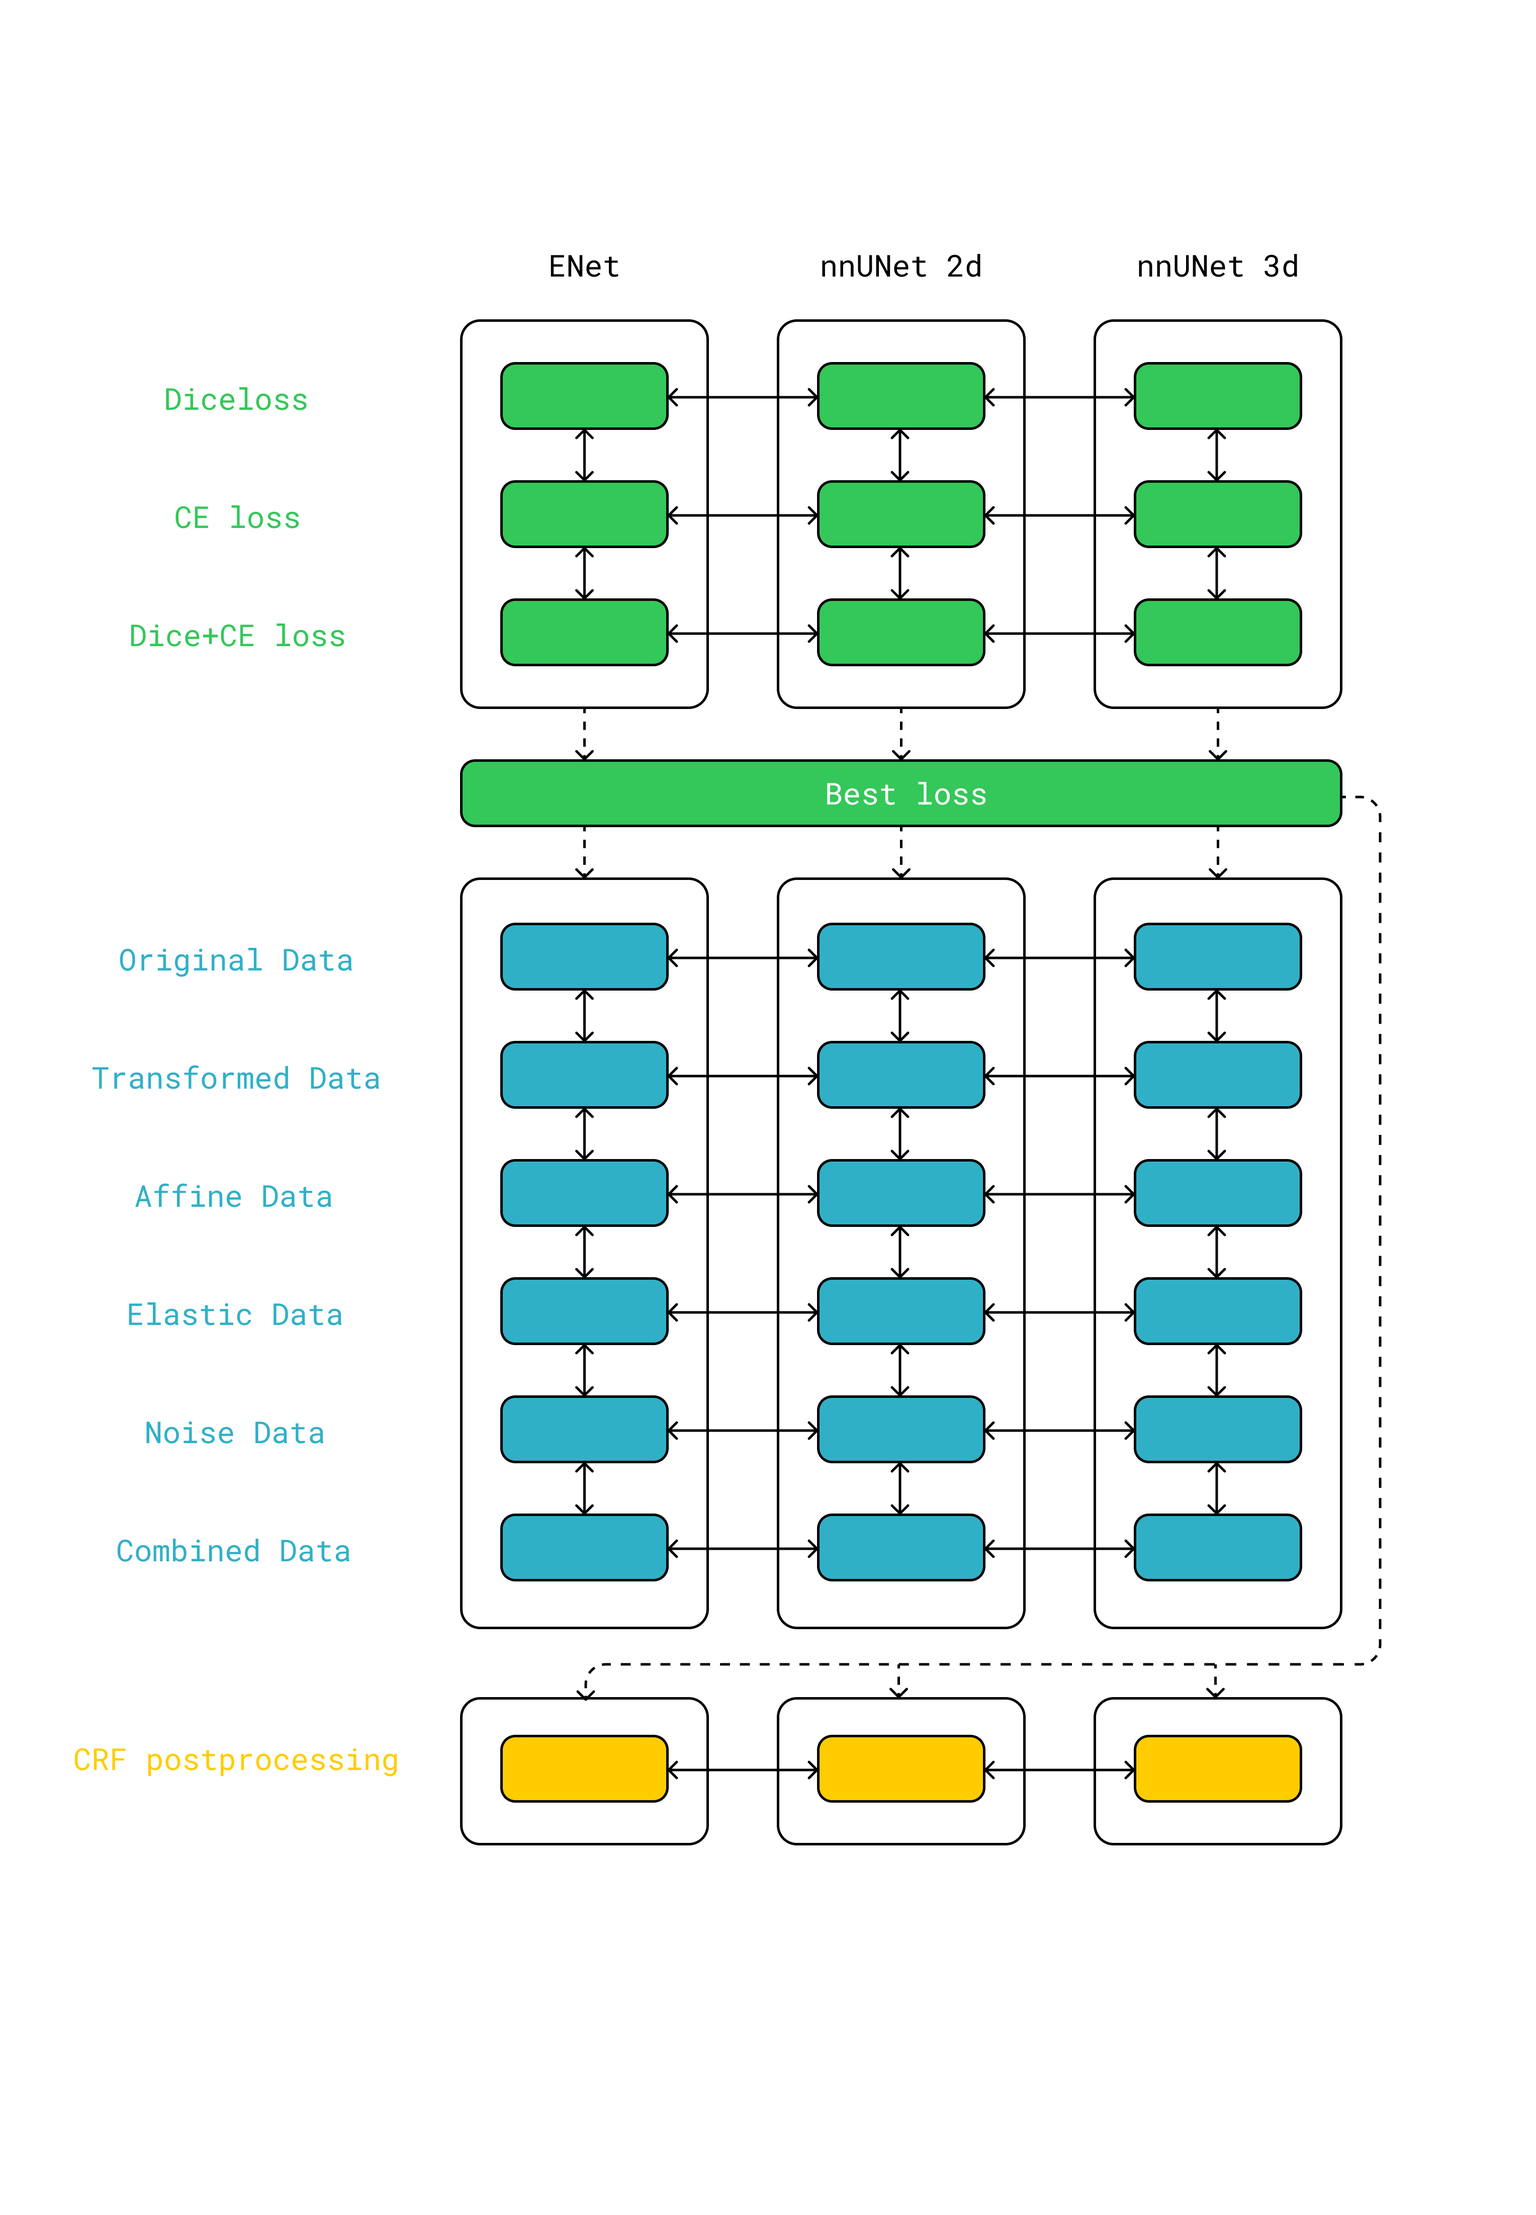
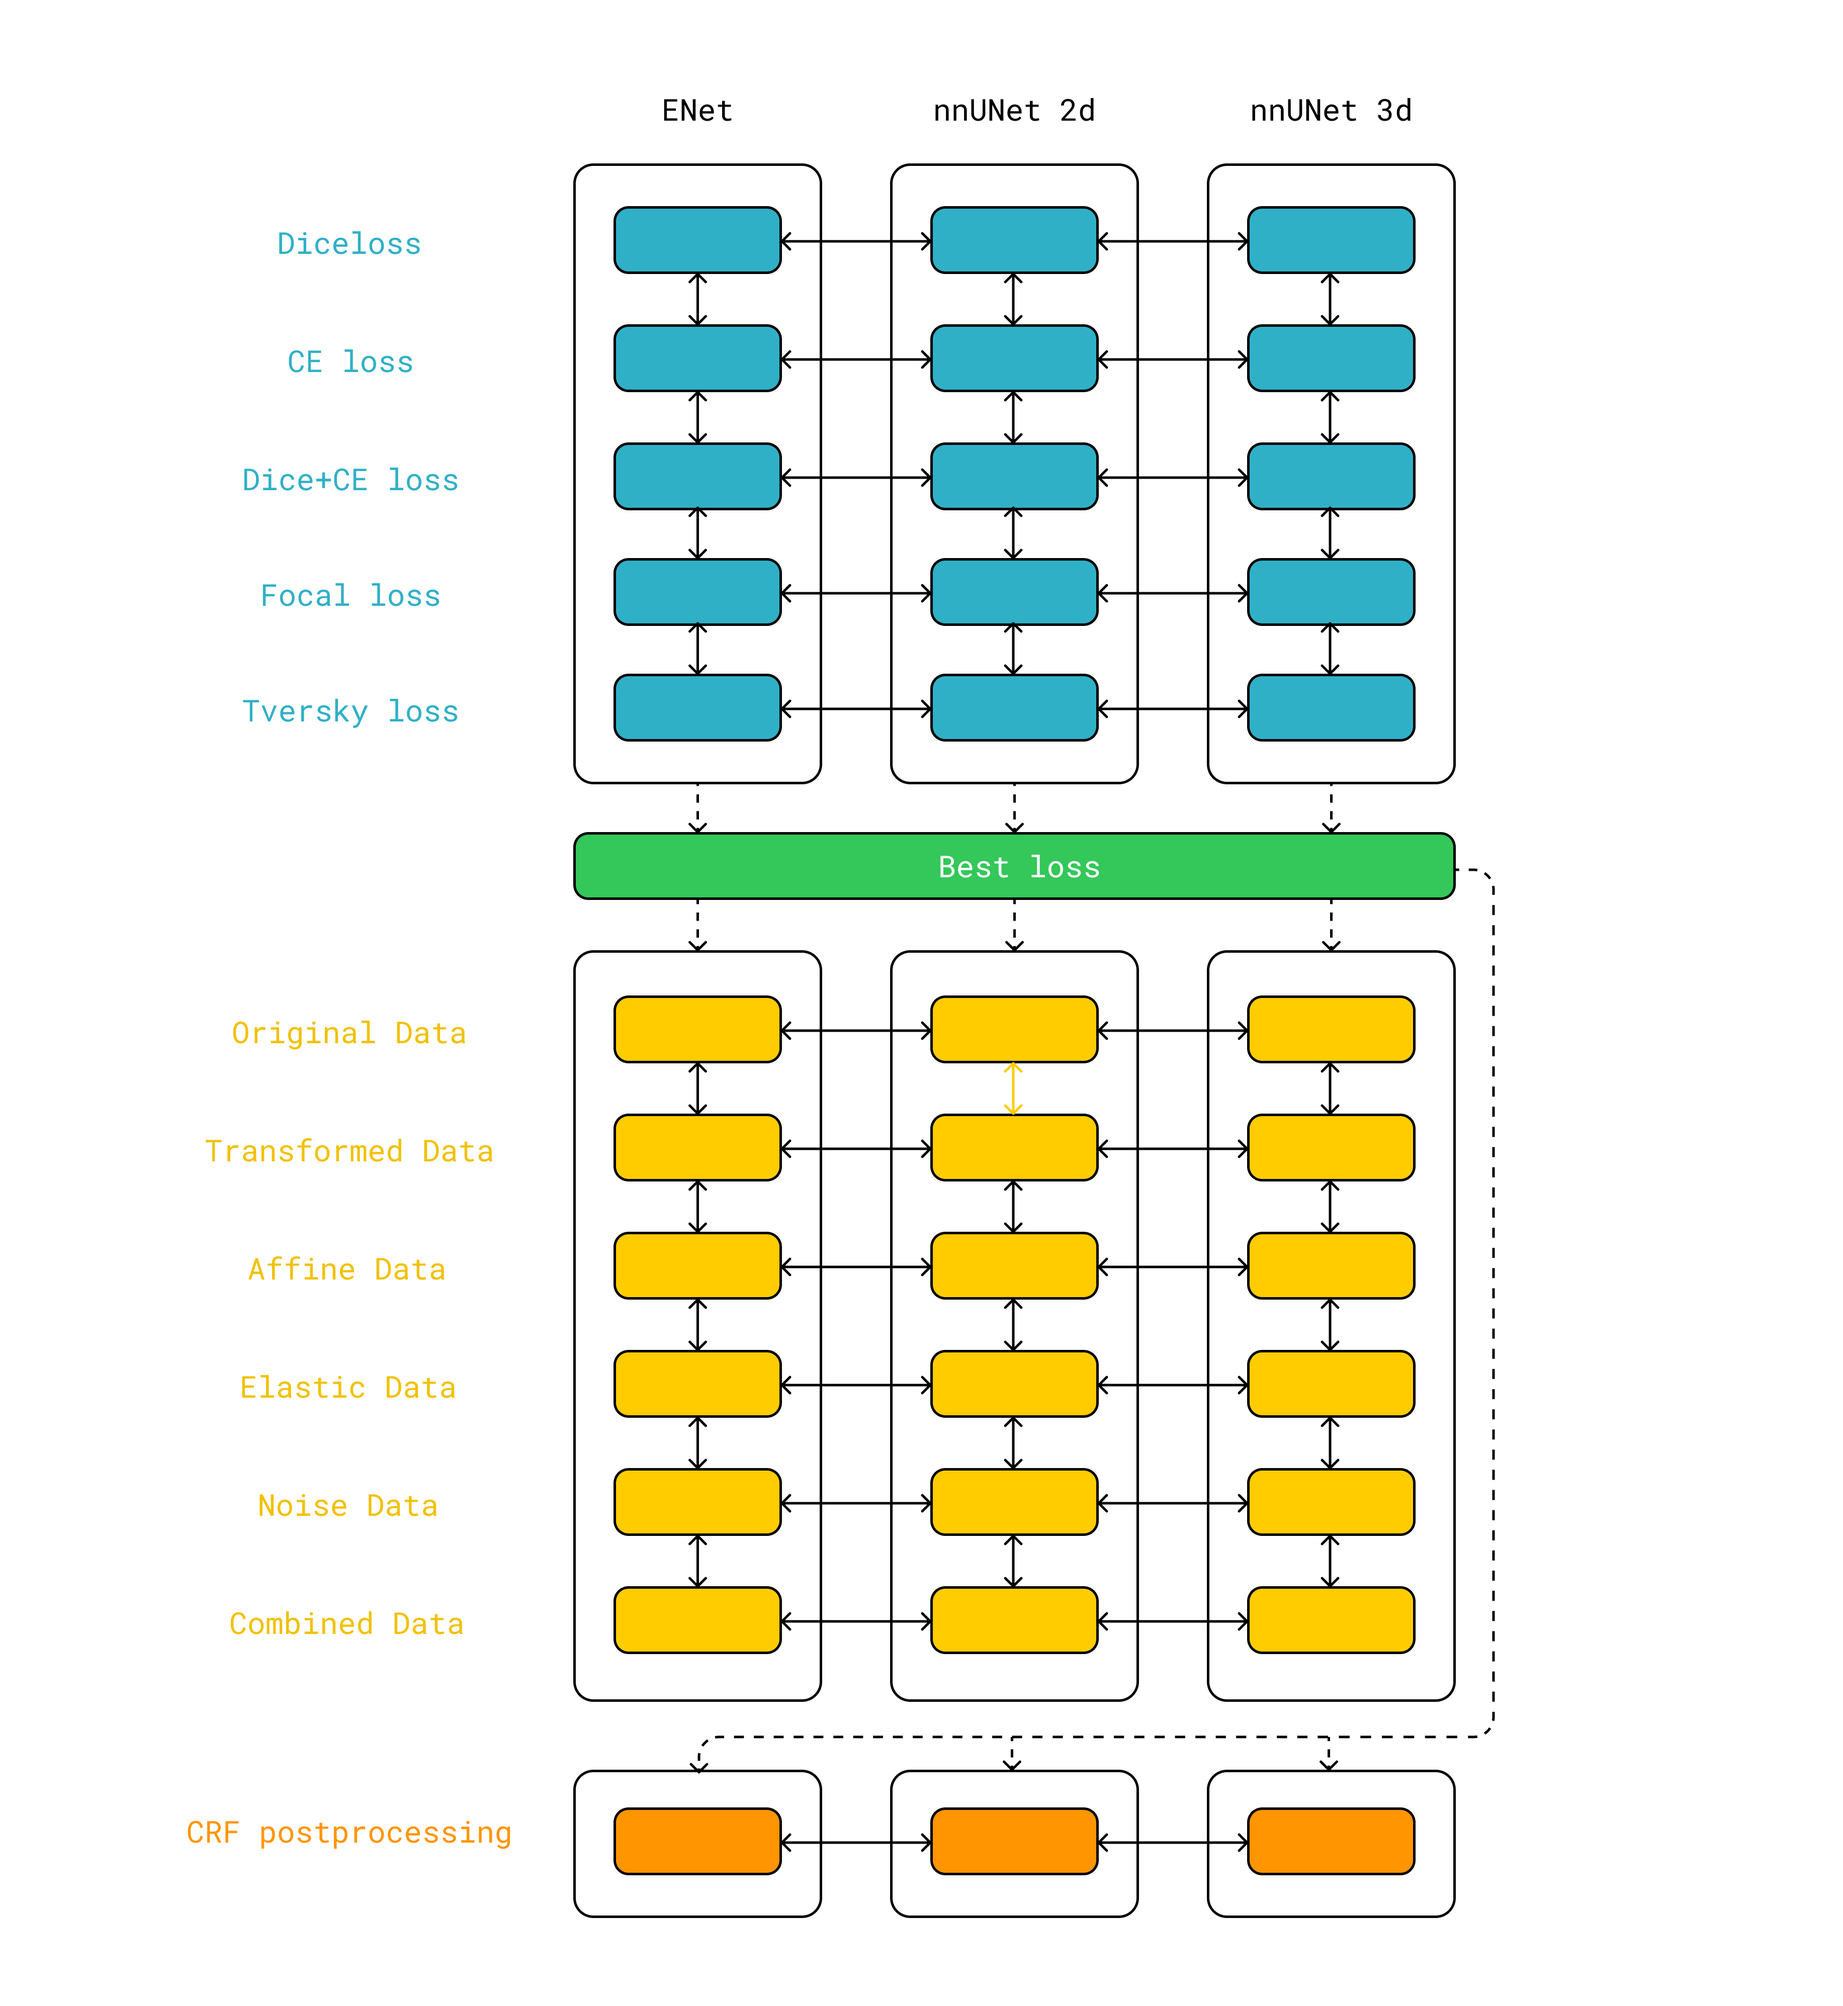
readme changes

diff --git a/README.md b/README.md
@@ -1,5 +1,18 @@
 # AI4MI
 ![Pipeline](AI4MI/pipeline.png)
+This repository is a research project conducted as part of the “AI for Medical Imaging” course at the University of Amsterdam (UvA). This project focuses on comparing three segmentation models—ENet, nnUNet 2D, and nnUNet 3D—on the SEGTHOR dataset, a publicly available dataset for thoracic organ segmentation in CT scans.
+
+## Research Scope
+
+We designed our research to focus on the following three dimensions:
+
+1.	**Model Variants**: We evaluate three different segmentation models—ENet, nnUNet 2D, and nnUNet 3D.
+2.	**Loss Functions**: For each model, we experiment with multiple loss functions, including Dice Loss, Cross-Entropy Loss (CE Loss), Dice + CE Loss, Focal Loss, and Tversky Loss.
+3.	**Data Augmentations**: We apply various data augmentations such as affine transformations, elastic deformations, and noise addition to the dataset, in addition to using the original and transformed data.
+4.	**Post-Processing**: Conditional Random Fields (CRF) are used as a post-processing step to further refine the model predictions.
+
+The aim is not to directly compare models like ENet and nnUNet head-to-head since they inherently differ in components such as dataloaders, optimizers, and overall architecture. Instead, we focus on **within-model comparisons** by observing the effects of different losses, data augmentations, and post-processing on each model individually. Only after analyzing these internal variations do we make cross-model comparisons—while acknowledging the inherent limitations and “unfair” aspects of these comparisons.
+
 ## Data Preparation and Augmentation
 If you have the SEGTHOR dataset in a zip file, follow these steps to prepare and augment the data:
 1.	Unzip the Data: Extract data.zip into the data/ folder.
